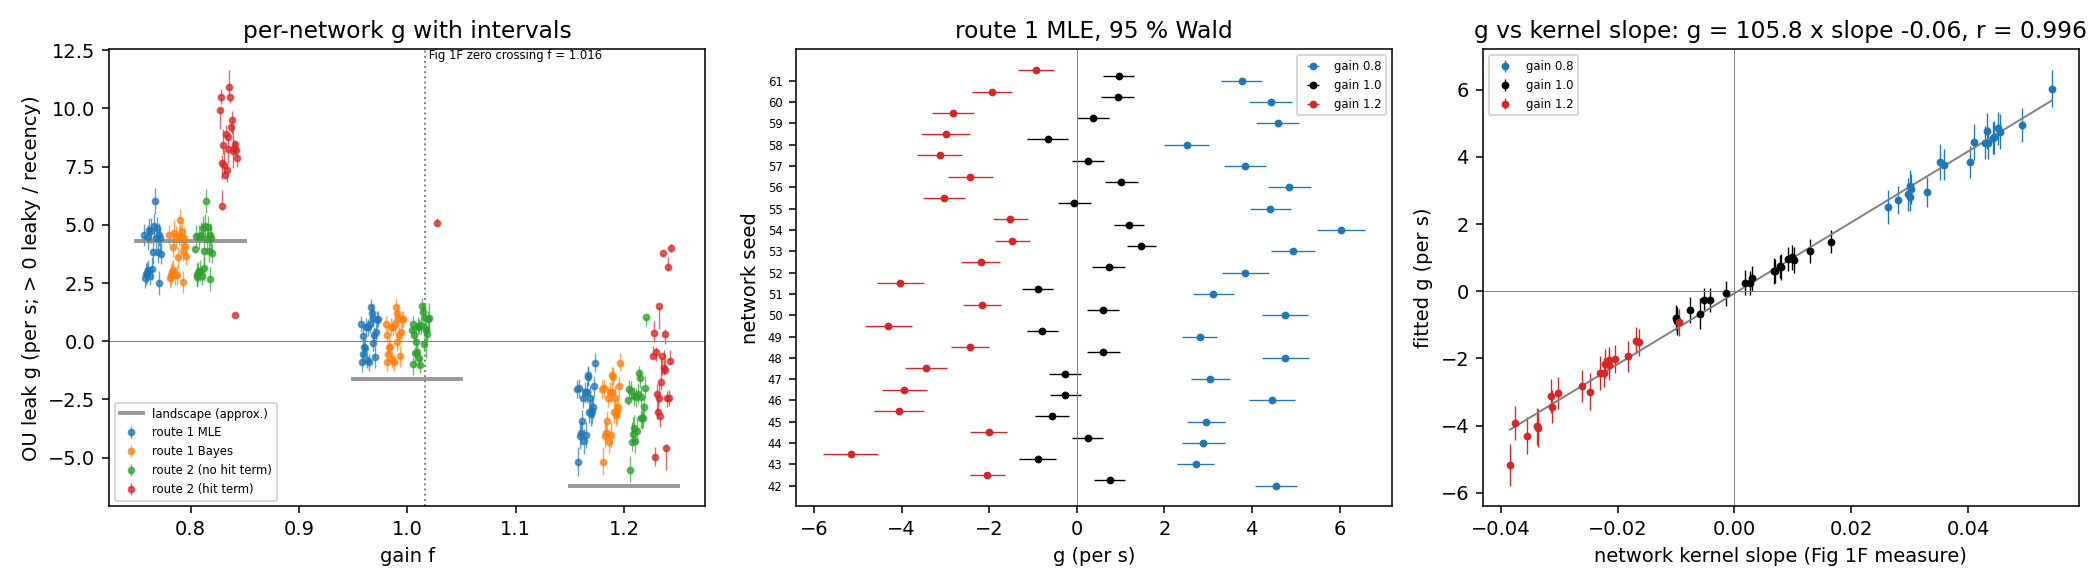
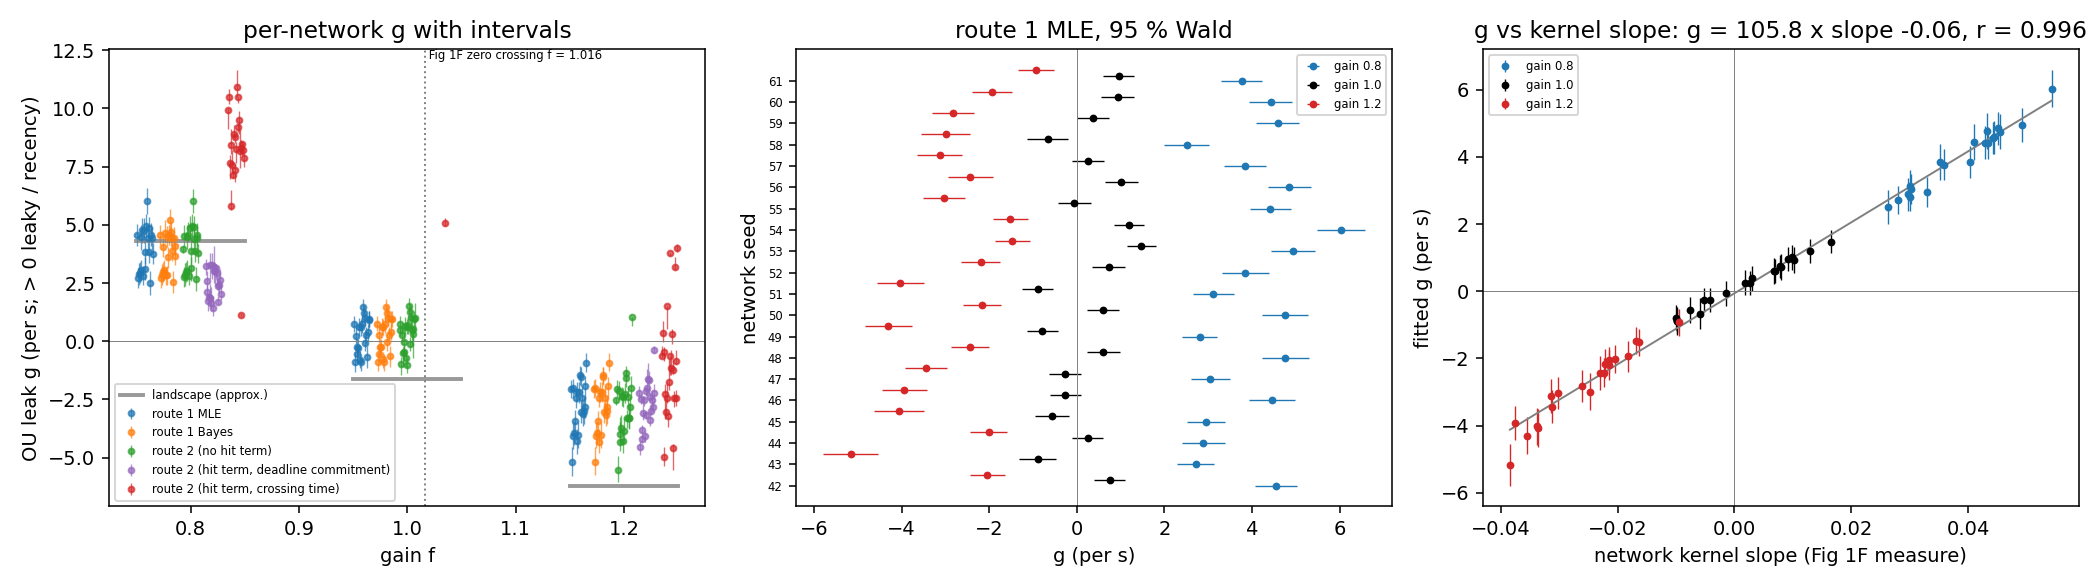
Track B: g-by-gain figure shows both hit-term variants

diff --git a/track_b/checks.py b/track_b/checks.py
@@ -197,19 +197,21 @@ def what_gfig():
     bnd = load_bounded()
     fig, axes = plt.subplots(1, 3, figsize=(15, 4.2))
     ax = axes[0]
-    off = {"route 1 MLE": -0.035, "route 1 Bayes": -0.012, "route 2 (no hit term)": 0.012,
-           "route 2 (hit term)": 0.035}
+    off = {"route 1 MLE": -0.042, "route 1 Bayes": -0.021, "route 2 (no hit term)": 0.0,
+           "route 2 (hit term, deadline commitment)": 0.021, "route 2 (hit term, crossing time)": 0.042}
     series = [("route 1 MLE", m, "g", "g_lo", "g_hi", "C0")]
     if b is not None:
         series.append(("route 1 Bayes", b, "g_mean", "g_hdi_lo", "g_hdi_hi", "C1"))
     if len(bnd):
-        for hm, lab, c in (("none", "route 2 (no hit term)", "C2"), ("cross", "route 2 (hit term)", "C3")):
+        for hm, lab, c in (("none", "route 2 (no hit term)", "C2"),
+                           ("term", "route 2 (hit term, deadline commitment)", "C4"),
+                           ("cross", "route 2 (hit term, crossing time)", "C3")):
             d = bnd[bnd.hit_mode == hm]
             if len(d):
                 series.append((lab, d, "g", "g_lo", "g_hi", c))
     for lab, d, gc, lo, hi, c in series:
         for gain, dd in d.groupby("gain"):
-            x = np.full(len(dd), gain) + off[lab] + np.linspace(-0.008, 0.008, len(dd))
+            x = np.full(len(dd), gain) + off[lab] + np.linspace(-0.007, 0.007, len(dd))
             ax.errorbar(x, dd[gc], yerr=[np.maximum(dd[gc] - dd[lo], 0), np.maximum(dd[hi] - dd[gc], 0)],
                         fmt="o", ms=3, lw=.7, color=c, alpha=.7,
                         label=lab if gain == 0.8 else None)
